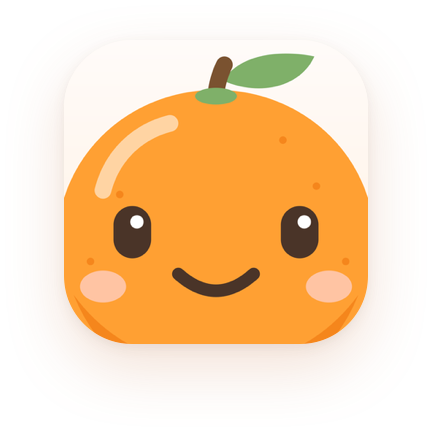
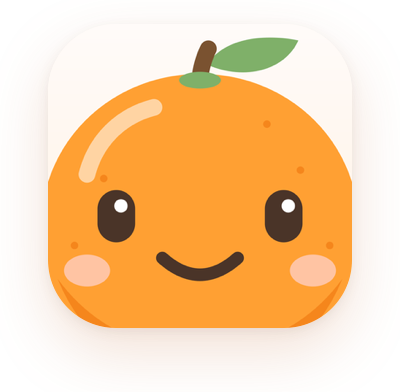
Tighten the spacing at the top of the README
Trims the icon image's shadow margin, puts the icon in the title heading,
and joins the subtitle and the powered-by line into one paragraph.

diff --git a/README.md b/README.md
@@ -1,12 +1,12 @@
+<h1 align="center">
+  <img src="docs/images/readme-icon.png" width="200" alt=""><br>
+  Calmera
+</h1>
+
 <p align="center">
-  <img src="docs/images/readme-icon.png" width="216" alt="Calmera app icon">
+  AI calorie and macro tracker<br>
+  <strong>Powered by your own ChatGPT or Claude.</strong>
 </p>
-
-<h1 align="center">Calmera</h1>
-
-<p align="center">AI calorie and macro tracker</p>
-
-<p align="center"><strong>Powered by your own ChatGPT or Claude.</strong></p>
 
 <p align="center">
   <a href="https://yufengwu.dev/calmera/">Website</a> ·
